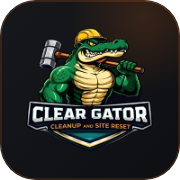
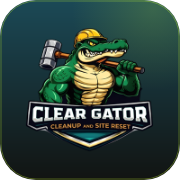
feat: brand palette v2 — Hi-Vis Lime, Gulf Teal, Shell Rock, Asphalt
Repoints the brand to the new identity palette:
  Hi-Vis Lime  #C6F432  (primary accent — formerly orange)
  Soft Lime    #D5F85F
  Gulf Teal    #367588  (secondary — formerly green)
  Deep Gulf    #1C4A57  (dark teal)
  Shell Rock   #EFE9DC  (warm bone surface)
  Asphalt      #121412  (near-black text + CTA foreground)

Design tokens
- tailwind.config.ts: `gator-orange*` tokens repointed to Hi-Vis Lime HSLs
  and `gator-green*` repointed to Gulf Teal / Deep Gulf. Every existing
  class in the codebase (bg-gator-orange, text-gator-orange-light,
  shadow-gator-orange/30, etc.) picks up the new brand automatically
- Added explicit `lime`, `teal`, `shell`, `asphalt` palette aliases for
  new code
- `ink` repointed to Asphalt (#121412)
- CSS tokens in index.css: --primary, --sidebar-primary, --ring,
  --chart-* flipped to Gulf Teal (and lifted-teal in dark mode).
  --muted/--secondary/--accent re-hued toward Shell Rock warm neutrals
- .bg-ink / .bg-ink-hero updated — ink-hero now uses a Gulf-Teal glow
  instead of the previous orange glow
- New .bg-shell utility for warm bone surfaces

CTA contrast fix (Hi-Vis Lime + white = unreadable, Lime + Asphalt = AAA)
- Every `bg-gator-orange ... text-white` CTA swept to `text-asphalt`:
  landing, service, service-area, admin, estimate, track, terms,
  privacy, booking-notifications, hero-quote-form, lead-form-compact,
  support-bot
- Mobile sticky call bars (landing/service/service-area): icon disc +
[…]

diff --git a/client/src/index.css b/client/src/index.css
@@ -18,30 +18,30 @@
   --sidebar: 0 0% 96%;
   --sidebar-foreground: 150 8% 12%;
   --sidebar-border: 0 0% 93%;
-  --sidebar-primary: 150 65% 28%;
-  --sidebar-primary-foreground: 150 65% 98%;
+  --sidebar-primary: 194 42% 37%;         /* Gulf Teal */
+  --sidebar-primary-foreground: 42 36% 95%;
   --sidebar-accent: 150 4% 90%;
   --sidebar-accent-foreground: 150 8% 12%;
-  --sidebar-ring: 150 65% 28%;
+  --sidebar-ring: 194 42% 37%;
   --popover: 0 0% 94%;
-  --popover-foreground: 150 8% 12%;
+  --popover-foreground: 120 7% 10%;
   --popover-border: 0 0% 91%;
-  --primary: 150 65% 28%;
-  --primary-foreground: 150 65% 98%;
-  --secondary: 150 4% 88%;
-  --secondary-foreground: 150 8% 12%;
-  --muted: 150 3% 91%;
-  --muted-foreground: 150 6% 35%;
-  --accent: 150 4% 92%;
-  --accent-foreground: 150 8% 12%;
+  --primary: 194 42% 37%;                 /* Gulf Teal — buttons, links, focus */
+  --primary-foreground: 42 36% 95%;
+  --secondary: 42 20% 92%;
+  --secondary-foreground: 120 7% 10%;
+  --muted: 42 18% 94%;
+  --muted-foreground: 194 10% 32%;
+  --accent: 42 24% 92%;
+  --accent-foreground: 120 7% 10%;
   --destructive: 0 72% 32%;
   --destructive-foreground: 0 72% 98%;
-  --input: 150 8% 45%;
-  --ring: 150 65% 28%;
-  --chart-1: 150 65% 28%;
-  --chart-2: 25 95% 45%;
-  --chart-3: 200 60% 35%;
-  --chart-4: 150 45% 40%;
+  --input: 194 10% 55%;
+  --ring: 194 42% 37%;
+  --chart-1: 194 42% 37%;                 /* Gulf Teal */
+  --chart-2: 75 90% 50%;                  /* Hi-Vis Lime */
+  --chart-3: 194 52% 23%;                 /* Deep Gulf */
+  --chart-4: 194 40% 48%;
   --chart-5: 30 85% 42%;
   --font-sans: "Geist", "Inter", -apple-system, BlinkMacSystemFont, "Segoe UI", sans-serif;
   --font-display: "Geist", "Inter", -apple-system, BlinkMacSystemFont, sans-serif;
@@ -101,32 +101,32 @@
   --card-foreground: 150 4% 95%;
   --card-border: 150 4% 13%;
   --sidebar: 150 4% 12%;
-  --sidebar-foreground: 150 4% 95%;
-  --sidebar-border: 150 4% 15%;
-  --sidebar-primary: 150 65% 32%;
-  --sidebar-primary-foreground: 150 65% 98%;
-  --sidebar-accent: 150 5% 16%;
-  --sidebar-accent-foreground: 150 4% 95%;
-  --sidebar-ring: 150 65% 32%;
-  --popover: 150 4% 14%;
-  --popover-foreground: 150 4% 95%;
-  --popover-border: 150 4% 17%;
-  --primary: 150 65% 30%;
-  --primary-foreground: 150 65% 98%;
-  --secondary: 150 4% 18%;
-  --secondary-foreground: 150 4% 95%;
-  --muted: 150 4% 16%;
-  --muted-foreground: 150 4% 70%;
-  --accent: 150 4% 15%;
-  --accent-foreground: 150 4% 95%;
+  --sidebar-foreground: 42 20% 95%;
+  --sidebar-border: 120 5% 15%;
+  --sidebar-primary: 194 40% 48%;         /* Gulf Teal lifted for dark */
+  --sidebar-primary-foreground: 42 36% 95%;
+  --sidebar-accent: 120 5% 16%;
+  --sidebar-accent-foreground: 42 20% 95%;
+  --sidebar-ring: 194 40% 48%;
+  --popover: 120 5% 14%;
+  --popover-foreground: 42 20% 95%;
+  --popover-border: 120 5% 17%;
+  --primary: 194 40% 48%;                 /* Gulf Teal lifted for dark */
+  --primary-foreground: 42 36% 95%;
+  --secondary: 120 5% 18%;
+  --secondary-foreground: 42 20% 95%;
+  --muted: 120 5% 16%;
+  --muted-foreground: 42 10% 70%;
+  --accent: 120 5% 15%;
+  --accent-foreground: 42 20% 95%;
   --destructive: 0 72% 32%;
   --destructive-foreground: 0 72% 98%;
-  --input: 150 8% 55%;
-  --ring: 150 65% 32%;
-  --chart-1: 150 65% 65%;
-  --chart-2: 25 95% 70%;
-  --chart-3: 200 60% 70%;
-  --chart-4: 150 45% 68%;
+  --input: 194 10% 55%;
+  --ring: 194 40% 48%;
+  --chart-1: 194 42% 55%;                 /* Gulf Teal */
+  --chart-2: 75 90% 65%;                  /* Hi-Vis Lime */
+  --chart-3: 194 52% 40%;
+  --chart-4: 42 36% 85%;
   --chart-5: 30 85% 72%;
   --shadow-2xs: 0px 2px 0px 0px hsl(0 0% 0% / 0.00);
   --shadow-xs: 0px 2px 0px 0px hsl(0 0% 0% / 0.00);
@@ -332,16 +332,21 @@
     box-shadow: 0 0 0 1px rgb(255 255 255 / 0.08);
   }
 
-  /* Editorial dark surface — a single, restrained near-black with a hint of cool depth */
+  /* Editorial dark surface — Asphalt (#121412) with a hint of cool depth */
   .bg-ink {
-    background: hsl(220 14% 7%);
+    background: hsl(120 7% 7%);
   }
 
-  /* Subtle vignette for hero — soft warmth at the top-right, deepens toward bottom */
+  /* Subtle vignette for hero — Gulf-Teal glow top-right, deepens to Asphalt */
   .bg-ink-hero {
     background:
-      radial-gradient(ellipse 60% 50% at 90% 0%, hsl(25 60% 30% / 0.16) 0%, transparent 60%),
-      linear-gradient(180deg, hsl(220 14% 8%) 0%, hsl(220 16% 6%) 100%);
+      radial-gradient(ellipse 60% 50% at 90% 0%, hsl(194 52% 23% / 0.26) 0%, transparent 60%),
+      linear-gradient(180deg, hsl(120 7% 8%) 0%, hsl(120 7% 5%) 100%);
+  }
+
+  /* Warm bone surface — Shell Rock (#EFE9DC) for calmer light sections */
+  .bg-shell {
+    background: hsl(42 36% 90%);
   }
 }
 

diff --git a/tailwind.config.ts b/tailwind.config.ts
@@ -80,20 +80,57 @@ export default {
           busy: "rgb(239 68 68)",
           offline: "rgb(156 163 175)",
         },
+        /* ─────────────────────────────────────────────────────────
+           Clear Gator — brand palette v2
+             Hi-Vis Lime  #C6F432  (primary accent, was "orange")
+             Gulf Teal    #367588  (secondary, was "green")
+             Deep Gulf    #1C4A57  (dark teal)
+             Shell Rock   #EFE9DC  (warm bone / soft surface)
+             Asphalt      #121412  (near-black for text + CTA fill)
+
+           NOTE: we repoint the existing `gator-orange*` and `gator-green*`
+           tokens to the new palette instead of renaming them, so every
+           existing className in the codebase inherits the new brand
+           without touching every file. The semantic names in prose are
+           lime/teal — the token names stayed for backwards compatibility.
+           ───────────────────────────────────────────────────────── */
         gator: {
-          green: "hsl(150 65% 28% / <alpha-value>)",
-          "green-dark": "hsl(150 65% 18% / <alpha-value>)",
-          "green-light": "hsl(150 55% 42% / <alpha-value>)",
-          slate: "hsl(215 16% 22% / <alpha-value>)",
+          /* Gulf Teal family — was green */
+          green:         "hsl(194 42% 37% / <alpha-value>)",  /* Gulf Teal   #367588 */
+          "green-dark":  "hsl(194 52% 23% / <alpha-value>)",  /* Deep Gulf   #1C4A57 */
+          "green-light": "hsl(194 40% 48% / <alpha-value>)",  /* Lifted teal #4A95AB */
+          slate:         "hsl(215 16% 22% / <alpha-value>)",
           "slate-light": "hsl(215 12% 44% / <alpha-value>)",
-          orange: "hsl(25 95% 50% / <alpha-value>)",
-          "orange-dark": "hsl(25 90% 40% / <alpha-value>)",
-          "orange-light": "hsl(30 100% 62% / <alpha-value>)",
+          /* Hi-Vis Lime family — was orange */
+          orange:        "hsl(75 90% 58% / <alpha-value>)",   /* Hi-Vis Lime #C6F432 */
+          "orange-dark": "hsl(75 100% 42% / <alpha-value>)",  /* Pressed    #9FD400 */
+          "orange-light":"hsl(75 95% 68% / <alpha-value>)",   /* Soft       #D5F85F */
+        },
+        /* Explicit palette aliases — use these in new code */
+        lime: {
+          DEFAULT: "hsl(75 90% 58% / <alpha-value>)",  /* #C6F432 */
+          dark:    "hsl(75 100% 42% / <alpha-value>)",
+          light:   "hsl(75 95% 68% / <alpha-value>)",
+        },
+        teal: {
+          DEFAULT: "hsl(194 42% 37% / <alpha-value>)", /* Gulf Teal */
+          deep:    "hsl(194 52% 23% / <alpha-value>)", /* Deep Gulf */
+          light:   "hsl(194 40% 48% / <alpha-value>)",
+        },
+        shell: {
+          DEFAULT: "hsl(42 36% 90% / <alpha-value>)",  /* Shell Rock #EFE9DC */
+          warm:    "hsl(36 40% 85% / <alpha-value>)",
+        },
+        asphalt: {
+          DEFAULT: "hsl(120 7% 7% / <alpha-value>)",   /* #121412 */
+          50:      "hsl(120 6% 11% / <alpha-value>)",
+          100:     "hsl(120 5% 17% / <alpha-value>)",
         },
         ink: {
-          DEFAULT: "hsl(220 14% 7% / <alpha-value>)",
-          50: "hsl(220 10% 12% / <alpha-value>)",
-          100: "hsl(220 10% 18% / <alpha-value>)",
+          /* Repointed to the new Asphalt for continuity */
+          DEFAULT: "hsl(120 7% 7% / <alpha-value>)",
+          50:      "hsl(120 6% 11% / <alpha-value>)",
+          100:     "hsl(120 5% 17% / <alpha-value>)",
         },
       },
       fontFamily: {

diff --git a/client/src/pages/landing.tsx b/client/src/pages/landing.tsx
@@ -697,7 +697,7 @@ export default function LandingPage() {
             <Link href="/estimate">
               <Button
                 size="lg"
-                className="bg-gator-orange hover:bg-gator-orange-dark text-white font-semibold gap-2 text-base px-8 h-12 rounded-md shadow-lg shadow-gator-orange/30"
+                className="bg-gator-orange hover:bg-gator-orange-dark text-asphalt font-semibold gap-2 text-base px-8 h-12 rounded-md shadow-lg shadow-gator-orange/30"
                 data-testid="footer-cta-estimate"
               >
                 Request an Estimate
@@ -843,7 +843,7 @@ export default function LandingPage() {
         href="tel:+12392343061"
         data-testid="mobile-call-now-bar"
         aria-label="Call Clear Gator at 239-234-3061"
-        className="sm:hidden fixed bottom-0 left-0 right-0 z-50 bg-gator-orange text-white flex items-center gap-3.5 active:bg-gator-orange-dark transition-colors border-t border-gator-orange-dark/40"
+        className="sm:hidden fixed bottom-0 left-0 right-0 z-50 bg-gator-orange text-asphalt flex items-center gap-3.5 active:bg-gator-orange-dark transition-colors border-t border-gator-orange-dark/40"
         style={{
           paddingTop: "14px",
           paddingBottom: "calc(env(safe-area-inset-bottom, 0px) + 14px)",
@@ -851,18 +851,18 @@ export default function LandingPage() {
           paddingRight: "18px",
         }}
       >
-        <span className="flex items-center justify-center w-11 h-11 rounded-full bg-white/15 flex-shrink-0">
+        <span className="flex items-center justify-center w-11 h-11 rounded-full bg-asphalt/15 flex-shrink-0">
           <PhoneCall className="w-5 h-5" strokeWidth={2.4} />
         </span>
         <span className="flex flex-col leading-tight flex-1 min-w-0 text-left">
-          <span className="font-mono text-[11px] font-semibold uppercase tracking-[0.18em] text-white/90">
+          <span className="font-mono text-[11px] font-semibold uppercase tracking-[0.18em] text-asphalt/85">
             Tap to Call · 24h Reply
           </span>
           <span className="font-display text-lg font-semibold tracking-[-0.01em]">
             (239) 234-3061
           </span>
         </span>
-        <ArrowRight className="w-5 h-5 text-white/85 flex-shrink-0" strokeWidth={2.4} />
+        <ArrowRight className="w-5 h-5 text-asphalt/85 flex-shrink-0" strokeWidth={2.4} />
       </a>
     </div>
   );

diff --git a/client/src/pages/service-area.tsx b/client/src/pages/service-area.tsx
@@ -92,7 +92,7 @@ export default function ServiceAreaPage() {
 
             <div className="flex flex-wrap items-center gap-4 mb-10">
               <Link href="/estimate">
-                <Button size="lg" className="bg-gator-orange hover:bg-gator-orange-dark text-white font-semibold gap-2 px-7 h-12 rounded-md shadow-lg shadow-gator-orange/20">
+                <Button size="lg" className="bg-gator-orange hover:bg-gator-orange-dark text-asphalt font-semibold gap-2 px-7 h-12 rounded-md shadow-lg shadow-gator-orange/20">
                   Request a Quote <ArrowRight className="w-4 h-4" />
                 </Button>
               </Link>
@@ -346,7 +346,7 @@ export default function ServiceAreaPage() {
           </p>
           <div className="flex flex-wrap justify-center gap-3">
             <Link href="/estimate">
-              <Button size="lg" className="bg-gator-orange hover:bg-gator-orange-dark text-white font-semibold gap-2 px-8 h-12 rounded-md shadow-lg shadow-gator-orange/30">
+              <Button size="lg" className="bg-gator-orange hover:bg-gator-orange-dark text-asphalt font-semibold gap-2 px-8 h-12 rounded-md shadow-lg shadow-gator-orange/30">
                 Get Your Free Estimate <ArrowRight className="w-4 h-4" />
               </Button>
             </Link>
@@ -382,7 +382,7 @@ export default function ServiceAreaPage() {
       {/* Mobile sticky call bar */}
       <a
         href="tel:+12392343061"
-        className="sm:hidden fixed bottom-0 left-0 right-0 z-50 bg-gator-orange text-white flex items-center gap-3.5 active:bg-gator-orange-dark transition-colors border-t border-gator-orange-dark/40"
+        className="sm:hidden fixed bottom-0 left-0 right-0 z-50 bg-gator-orange text-asphalt flex items-center gap-3.5 active:bg-gator-orange-dark transition-colors border-t border-gator-orange-dark/40"
         style={{
           paddingTop: "14px",
           paddingBottom: "calc(env(safe-area-inset-bottom, 0px) + 14px)",

diff --git a/client/src/pages/service.tsx b/client/src/pages/service.tsx
@@ -108,7 +108,7 @@ export default function ServicePage() {
 
             <div className="flex flex-wrap items-center gap-4 mb-10">
               <Link href="/estimate">
-                <Button size="lg" className="bg-gator-orange hover:bg-gator-orange-dark text-white font-semibold gap-2 px-7 h-12 rounded-md shadow-lg shadow-gator-orange/30">
+                <Button size="lg" className="bg-gator-orange hover:bg-gator-orange-dark text-asphalt font-semibold gap-2 px-7 h-12 rounded-md shadow-lg shadow-gator-orange/30">
                   Request a Quote <ArrowRight className="w-4 h-4" />
                 </Button>
               </Link>
@@ -392,7 +392,7 @@ export default function ServicePage() {
           </p>
           <div className="flex flex-wrap justify-center gap-3">
             <Link href="/estimate">
-              <Button size="lg" className="bg-gator-orange hover:bg-gator-orange-dark text-white font-semibold gap-2 px-8 h-12 rounded-md shadow-lg shadow-gator-orange/30">
+              <Button size="lg" className="bg-gator-orange hover:bg-gator-orange-dark text-asphalt font-semibold gap-2 px-8 h-12 rounded-md shadow-lg shadow-gator-orange/30">
                 Get Your Free Estimate <ArrowRight className="w-4 h-4" />
               </Button>
             </Link>
@@ -428,7 +428,7 @@ export default function ServicePage() {
       {/* Mobile sticky call bar */}
       <a
         href="tel:+12392343061"
-        className="sm:hidden fixed bottom-0 left-0 right-0 z-50 bg-gator-orange text-white flex items-center gap-3.5 active:bg-gator-orange-dark transition-colors border-t border-gator-orange-dark/40"
+        className="sm:hidden fixed bottom-0 left-0 right-0 z-50 bg-gator-orange text-asphalt flex items-center gap-3.5 active:bg-gator-orange-dark transition-colors border-t border-gator-orange-dark/40"
         style={{
           paddingTop: "14px",
           paddingBottom: "calc(env(safe-area-inset-bottom, 0px) + 14px)",

diff --git a/client/src/pages/estimate.tsx b/client/src/pages/estimate.tsx
@@ -65,7 +65,7 @@ function StepIndicator({ currentStep }: { currentStep: number }) {
                   ${done
                     ? "bg-primary border-primary text-primary-foreground"
                     : active
-                    ? "bg-gator-orange border-gator-orange text-white shadow-lg shadow-gator-orange/25"
+                    ? "bg-gator-orange border-gator-orange text-asphalt shadow-lg shadow-gator-orange/25"
                     : "bg-background border-border text-muted-foreground"
                   }`}>
                   {done ? <CheckCircle2 className="w-4 h-4" /> : <span>{i + 1}</span>}
@@ -503,7 +503,7 @@ export default function EstimatePage() {
                     onClick={handleSubmit}
                     disabled={submitMutation.isPending}
                     data-testid="button-submit-estimate"
-                    className="bg-gator-orange hover:bg-gator-orange-dark text-white font-bold gap-2 shadow-lg shadow-gator-orange/25 px-8"
+                    className="bg-gator-orange hover:bg-gator-orange-dark text-asphalt font-bold gap-2 shadow-lg shadow-gator-orange/25 px-8"
                   >
                     {submitMutation.isPending ? "Submitting..." : "Submit Estimate Request"}
                     {!submitMutation.isPending && <CheckCircle2 className="w-4 h-4" />}

diff --git a/client/src/components/main-nav.tsx b/client/src/components/main-nav.tsx
@@ -347,9 +347,9 @@ function MobileMenu({ onClose }: { onClose: () => void }) {
           {/* Quick CTAs */}
           <div className="grid grid-cols-2 gap-3 p-5">
             <Link href="/estimate" onClick={onClose}>
-              <div className="group rounded-lg bg-gator-orange text-white p-4 active:bg-gator-orange-dark transition-colors h-full flex flex-col justify-between min-h-[100px] shadow-lg shadow-gator-orange/25">
+              <div className="group rounded-lg bg-gator-orange text-asphalt p-4 active:bg-gator-orange-dark transition-colors h-full flex flex-col justify-between min-h-[100px] shadow-lg shadow-gator-orange/25">
                 <div>
-                  <div className="font-mono text-[10px] uppercase tracking-[0.22em] text-white/85 mb-1.5">Get</div>
+                  <div className="font-mono text-[10px] uppercase tracking-[0.22em] text-asphalt/75 mb-1.5">Get</div>
                   <div className="font-display text-lg font-bold tracking-tight leading-tight">Free Estimate</div>
                 </div>
                 <ArrowRight className="w-4 h-4 self-end" strokeWidth={2.4} />

diff --git a/client/src/pages/admin.tsx b/client/src/pages/admin.tsx
@@ -1098,7 +1098,7 @@ function CrewSection({ crew, loading, onChanged }: { crew: CrewMember[]; loading
                   <span className={`text-[10px] font-semibold px-2 py-1 rounded-md border ${CREW_STATUS_COLORS[c.status] || ""}`}>{c.status}</span>
                 </div>
                 <a href={`tel:${c.phone}`} className="group flex items-center gap-3 p-3 rounded-md bg-muted/40 border border-border/60 hover:border-gator-orange hover:bg-gator-orange/5 transition-colors mb-2">
-                  <div className="w-9 h-9 rounded-md bg-gator-orange text-white flex items-center justify-center flex-shrink-0">
+                  <div className="w-9 h-9 rounded-md bg-gator-orange text-asphalt flex items-center justify-center flex-shrink-0">
                     <Phone className="w-4 h-4" strokeWidth={2.2} />
                   </div>
                   <div className="leading-tight">

diff --git a/client/index.html b/client/index.html
@@ -3,13 +3,13 @@
   <head>
     <meta charset="UTF-8" />
     <meta name="viewport" content="width=device-width, initial-scale=1.0, maximum-scale=1" />
-    <meta name="theme-color" content="#f97316" />
+    <meta name="theme-color" content="#C6F432" />
     <link rel="icon" type="image/svg+xml" href="/favicon.svg" />
     <link rel="icon" type="image/png" sizes="32x32" href="/favicon.png" />
     <link rel="icon" type="image/png" sizes="192x192" href="/favicon-192.png" />
     <link rel="apple-touch-icon" sizes="180x180" href="/apple-touch-icon.png" />
     <link rel="manifest" href="/site.webmanifest" />
-    <meta name="msapplication-TileColor" content="#f97316" />
+    <meta name="msapplication-TileColor" content="#C6F432" />
     <meta name="apple-mobile-web-app-title" content="Clear Gator" />
     <meta name="application-name" content="Clear Gator" />
 

diff --git a/client/src/components/hero-quote-form.tsx b/client/src/components/hero-quote-form.tsx
@@ -298,7 +298,7 @@ export default function HeroQuoteForm() {
                 type="submit"
                 disabled={submit.isPending}
                 data-testid="hero-form-submit"
-                className="flex-1 h-12 sm:h-11 rounded-md bg-gator-orange hover:bg-gator-orange-dark text-white font-semibold text-sm flex items-center justify-center gap-2 transition-colors focus-ring disabled:opacity-70"
+                className="flex-1 h-12 sm:h-11 rounded-md bg-gator-orange hover:bg-gator-orange-dark text-asphalt font-semibold text-sm flex items-center justify-center gap-2 transition-colors focus-ring disabled:opacity-70"
               >
                 {submit.isPending ? (
                   <>

diff --git a/client/src/components/lead-form-compact.tsx b/client/src/components/lead-form-compact.tsx
@@ -152,7 +152,7 @@ export default function LeadFormCompact({
         <button
           type="submit"
           disabled={submit.isPending}
-          className="flex-1 h-12 sm:h-11 rounded-md bg-gator-orange hover:bg-gator-orange-dark text-white font-semibold text-sm flex items-center justify-center gap-2 transition-colors focus-ring disabled:opacity-70"
+          className="flex-1 h-12 sm:h-11 rounded-md bg-gator-orange hover:bg-gator-orange-dark text-asphalt font-semibold text-sm flex items-center justify-center gap-2 transition-colors focus-ring disabled:opacity-70"
         >
           {submit.isPending ? (
             <><Loader2 className="w-4 h-4 animate-spin" /> Sending…</>

diff --git a/client/src/pages/track.tsx b/client/src/pages/track.tsx
@@ -70,7 +70,7 @@ function StatusRail({ status }: { status: string }) {
                 ${done
                   ? "bg-primary border-primary text-primary-foreground"
                   : active
-                  ? "bg-gator-orange border-gator-orange text-white shadow-md shadow-gator-orange/30"
+                  ? "bg-gator-orange border-gator-orange text-asphalt shadow-md shadow-gator-orange/30"
                   : "bg-muted border-border text-muted-foreground"
                 }`}>
                 {done ? <CheckCircle2 className="w-4 h-4" /> : <span className="text-xs font-bold">{i + 1}</span>}
